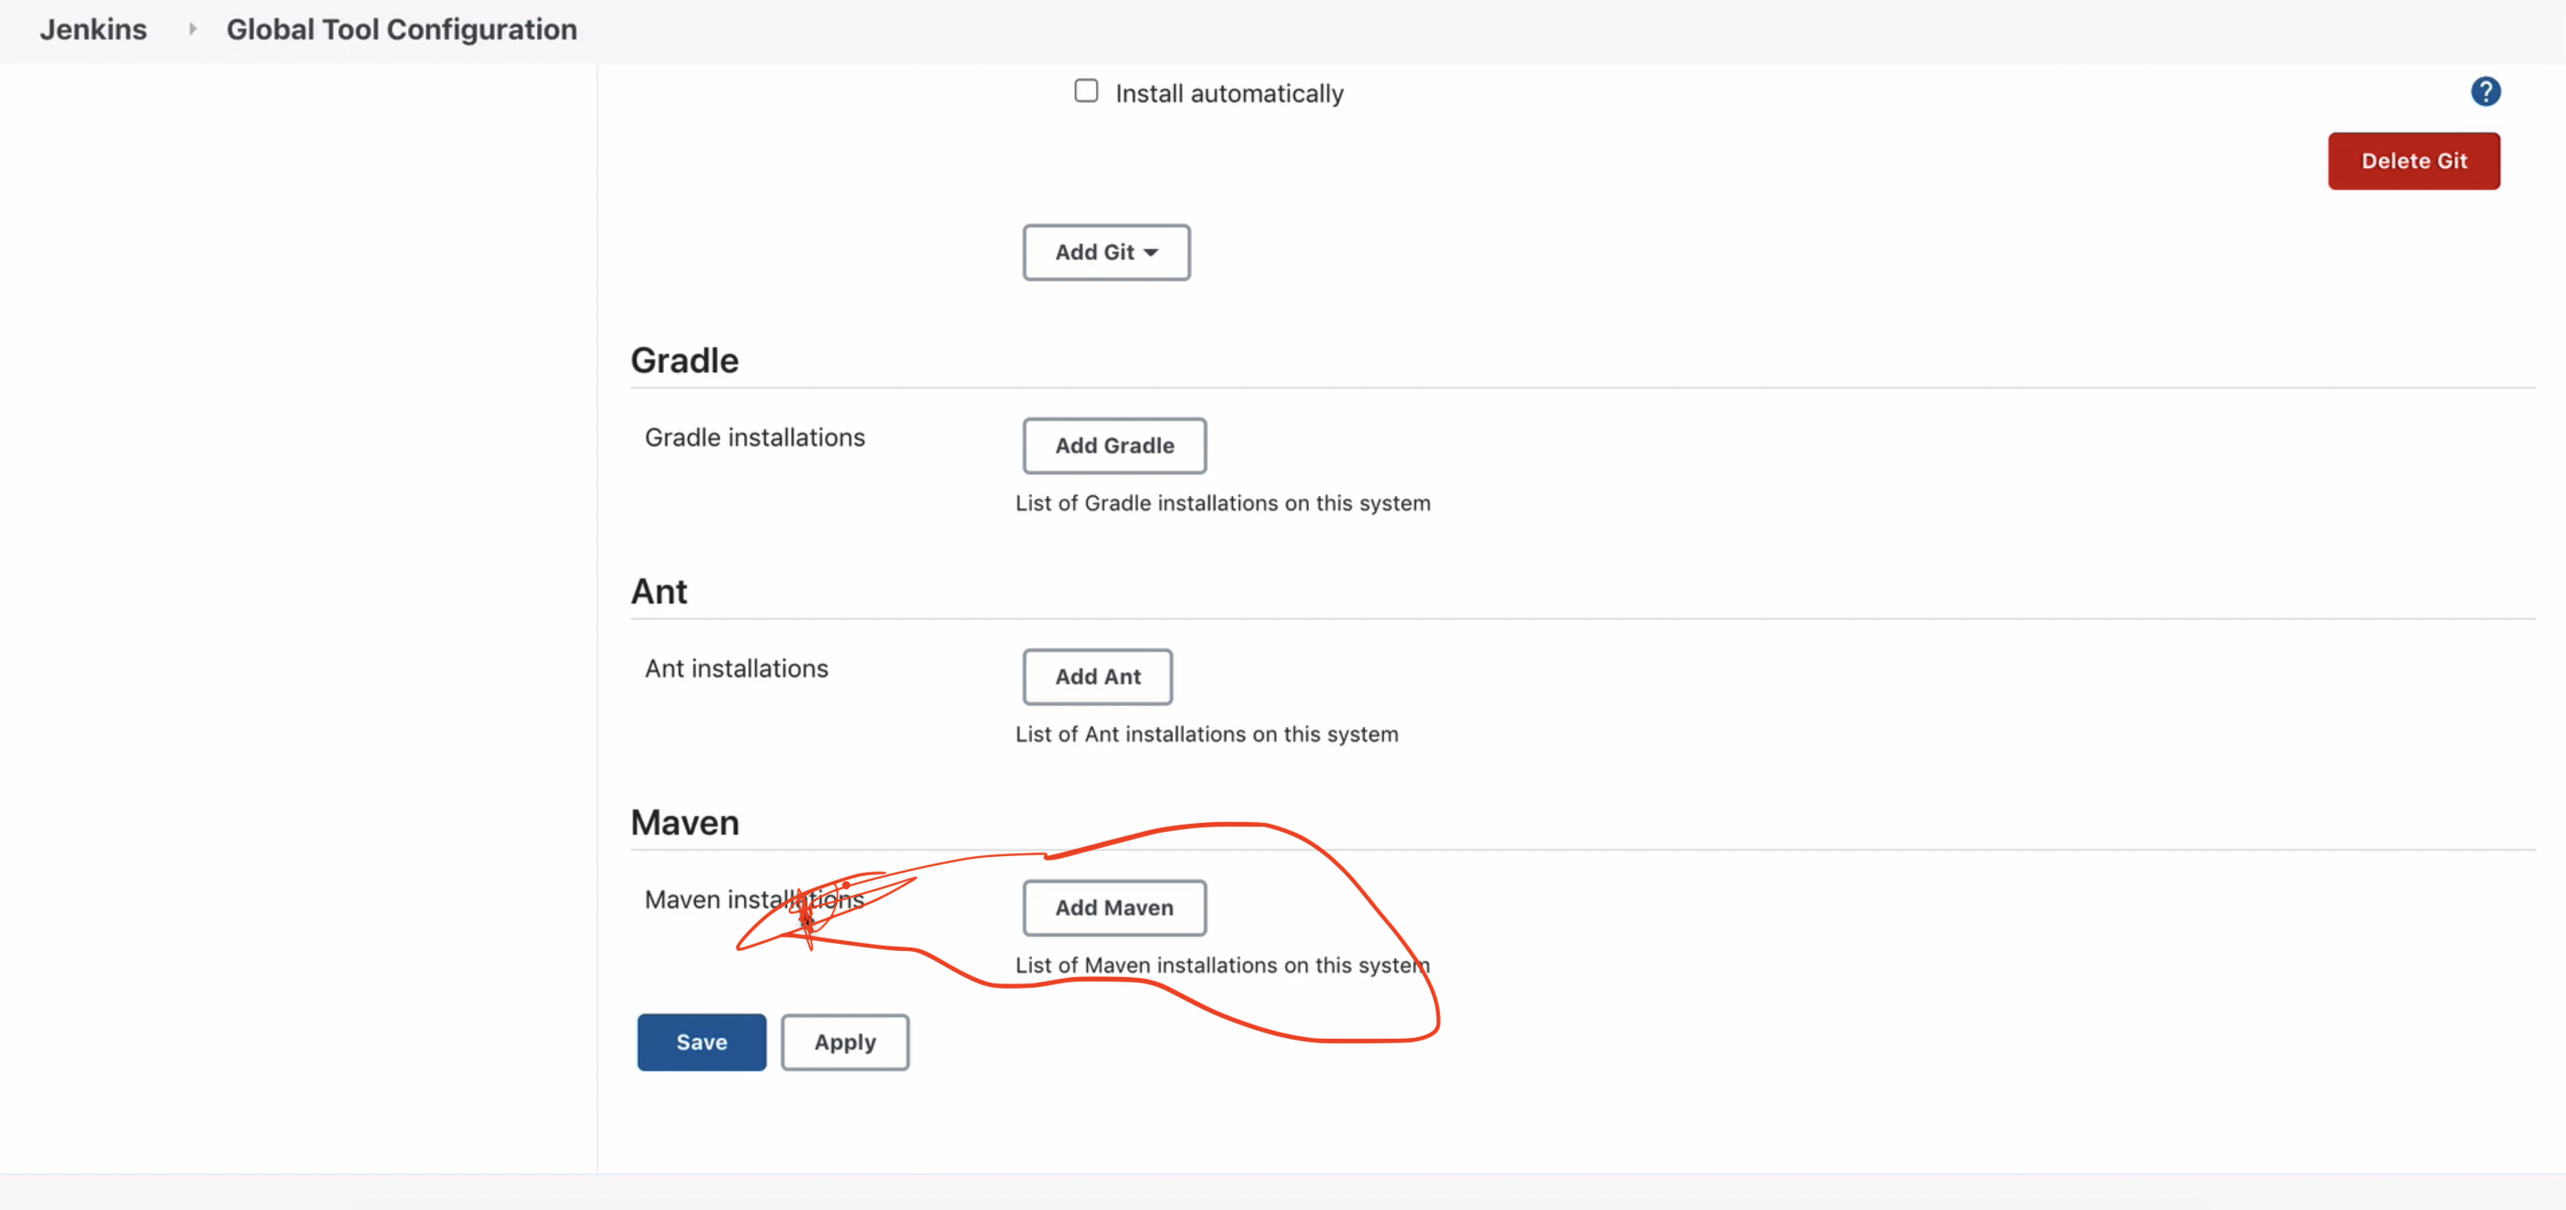
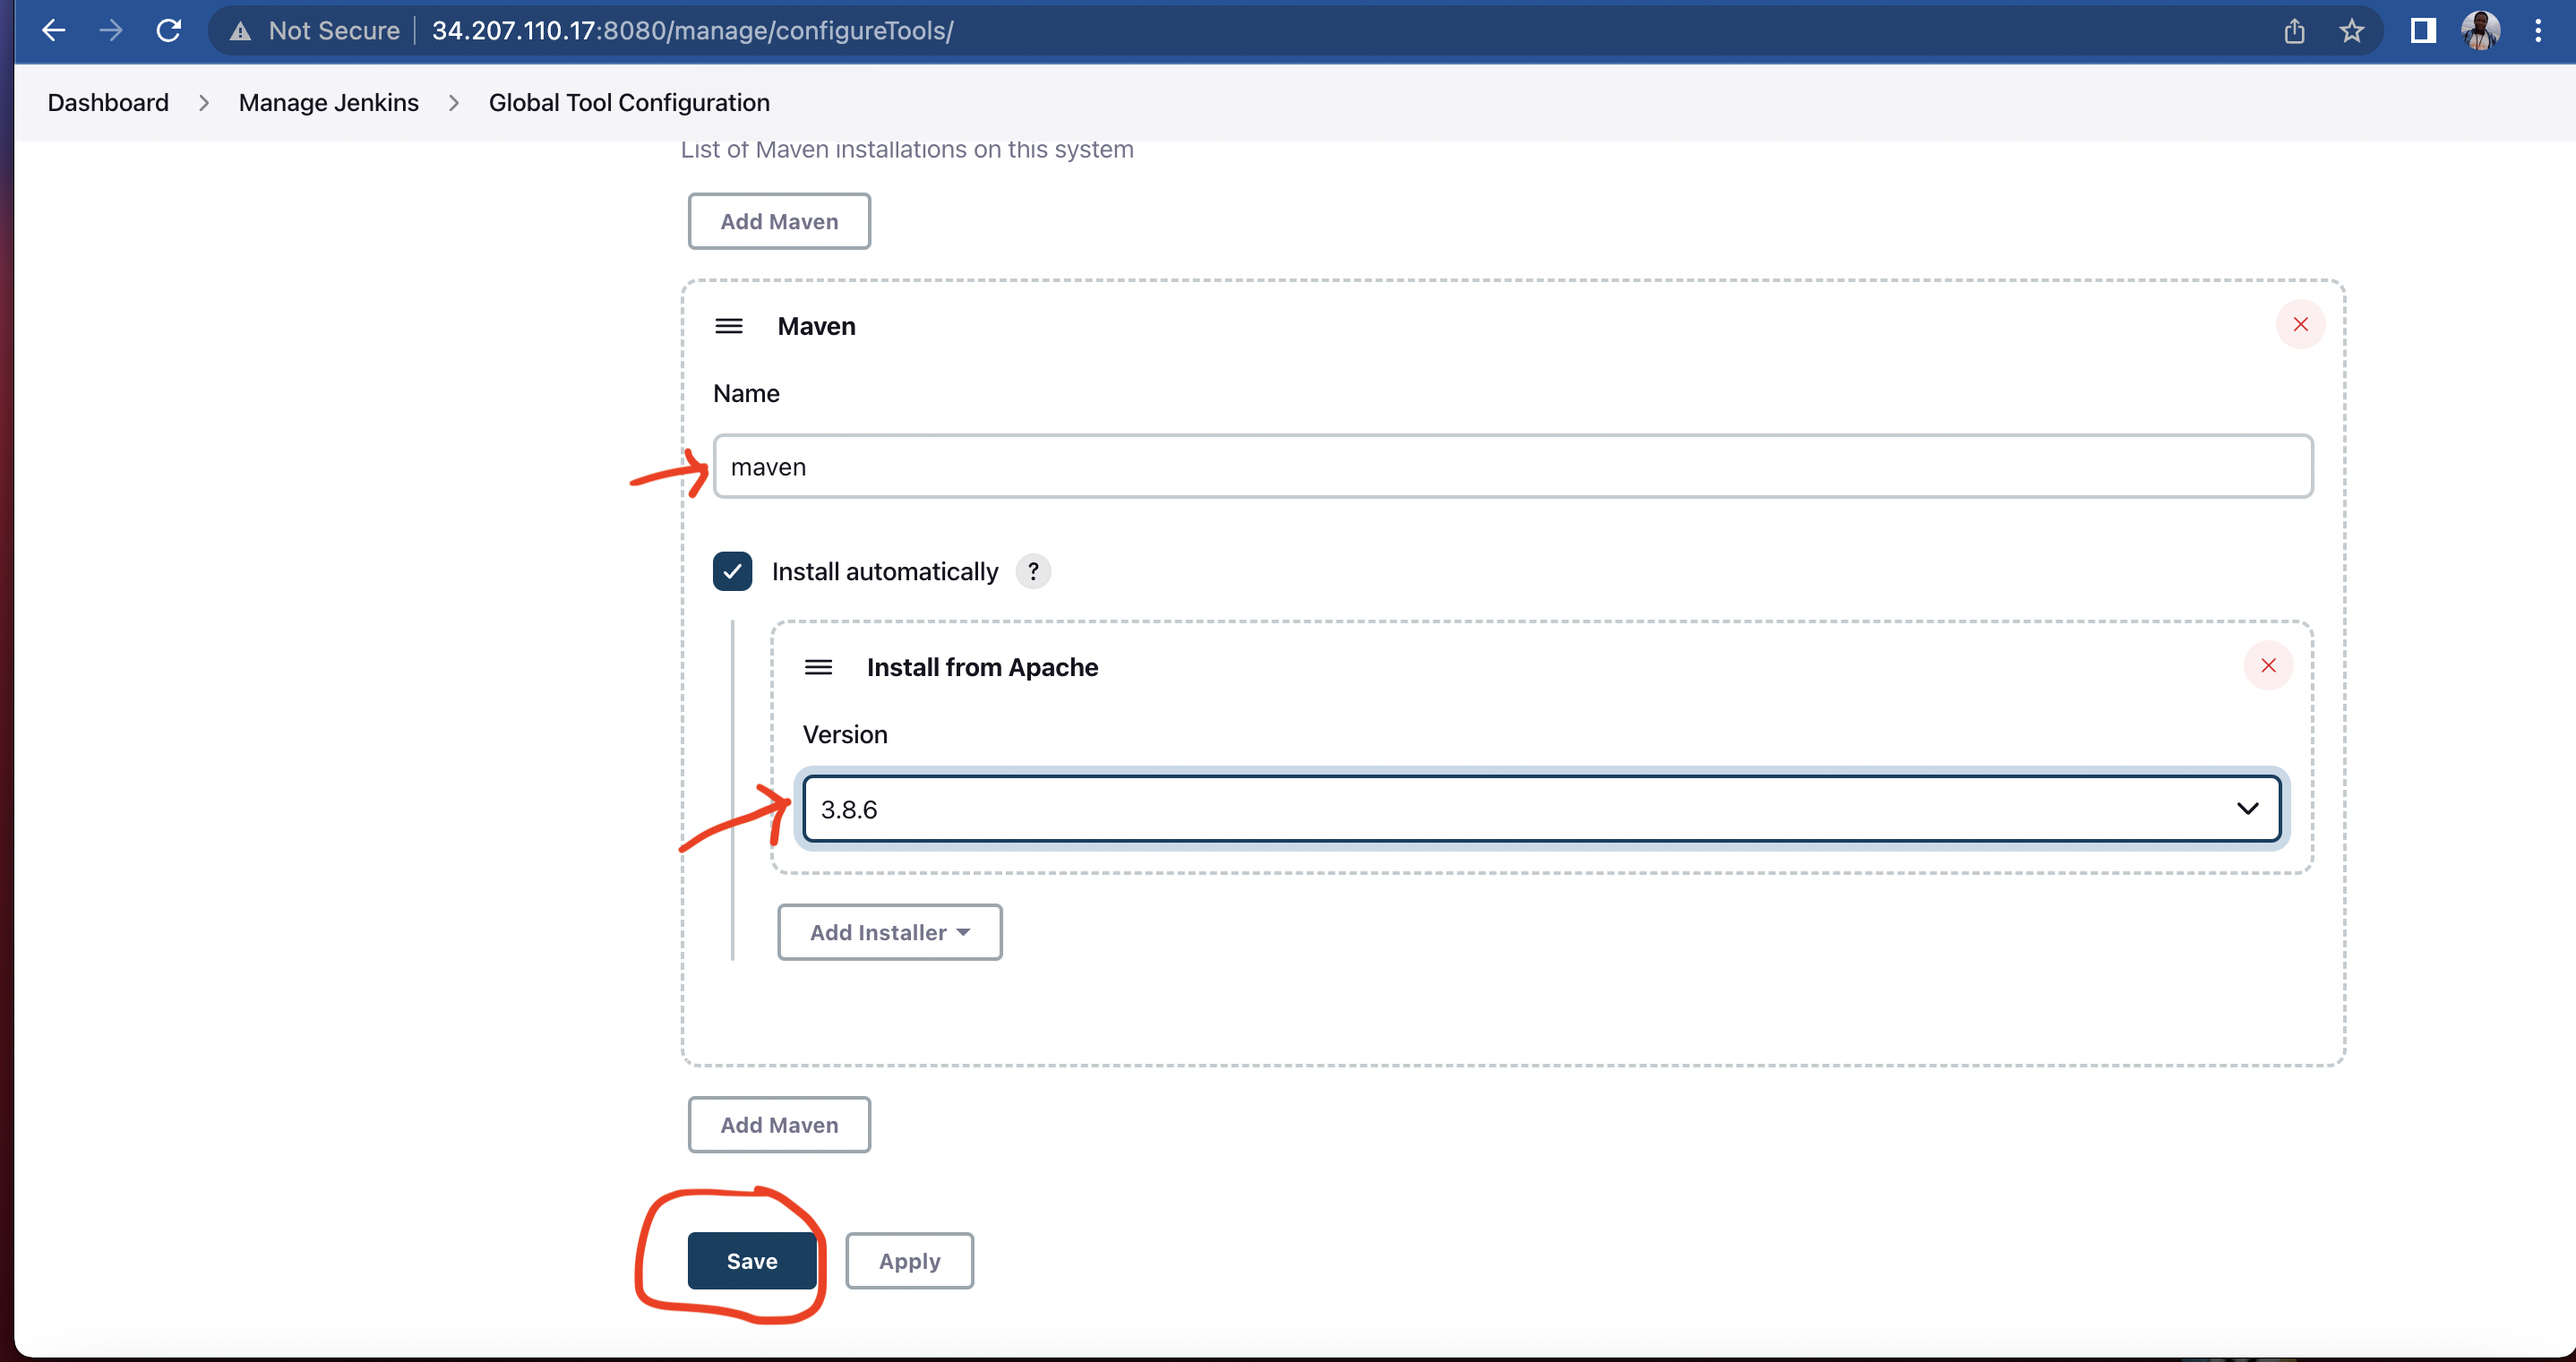
more docs

diff --git a/docs/README.md b/docs/README.md
@@ -8,7 +8,7 @@
   * [Install Jenkins using docker](#install-jenkins-using-docker)
   * [Initialise Jenkins](#initialise-jenkins)
   * [Create admin user](#create-admin-user)
-* [Install and Configure Plugins and Tools](#install-and-configure-plugins-and-tools)
+* [Configure Plugins and Tools](#configure-plugins-and-tools)
   * [Configure Maven plugins](#configure-maven-plugins)
   * [Configure Docker](#configure-docker)
   * [Credential and Authentication](#credential-authentication)
@@ -17,10 +17,11 @@
   * [Jenkinsfile defined](#jenkinsfile-defined)
 <!-- TOC -->
 
-# Set up Jenkins server on AWS Cloud
-
-This diagram describes the planned pipeline:
+This diagram describes the design:
 ![ci-with-jenkins](assets/ci-with-jenkins.svg)
+
+# Set up Jenkins server on AWS Cloud
+In this part, am going to spin up remote Jenkins server, install docker, initialise Jenkins and create admin user.
 
 ## Spin up virtual machine on AWS
 - I am going to set up Jenkins server on AWS cloud platform using docker so I wouldn't need to install dependencies like java directly on the server, all needed is just docker to get started.
@@ -32,6 +33,9 @@ This diagram describes the planned pipeline:
 ![aws-2](assets/aws-2.png)
 
 ## Install docker
+- First, to remotely access the VM, create key pair and download it from the AWS
+![sshkey](assets/sshkey.png)
+- SSH into the VM; Each time must cd into where the downloaded .pem file are, then run this command; ```ssh -i <identity_file.pem> ec2-user@<hostname>```
 - Docker runtime; Next is to install Docker as my runtime environment by running below command;
     ```sudo yum update -y```
     ```sudo amazon-linux-extras install docker```
@@ -44,13 +48,12 @@ This diagram describes the planned pipeline:
 I then copy the instance IP address and port to browser to view Jenkins app; ```http://34.207.110.17:8080/```
 
 ## Initialise Jenkins
-- Initialise Jenkins; Upon display on the browser, I supplied one-time use credential located at that path in red inside the container. 
-How did I get this password? I change permission and ssh into the server, cd into the .pem file download. With this command; ```ssh -i <identity_file.pem> ec2-user@<hostname>```
+- Initialise Jenkins; Upon display on the browser, I supplied one-time use credential located at that path in red inside the container. How I get this password is to view the file content inside the container 
 ![aws-3](assets/aws-3.png)
 
 - Enter the container; From the server, enter into the container by running this command;
     ```docker exec -it <container id> /bin/bash```
-to view the content of the password with this command;
+- View the content of the password with this command;
     ```cat /var/jenkins_home/secrets/initialAdminPassword```
 ![aws-4](assets/aws-4.png)
 
@@ -58,15 +61,27 @@ to view the content of the password with this command;
 - Create admin user; I go with the Install suggested plugins and create admin user
 ![aws-5](assets/aws-5.png)
 
-# Install and Configure plugins and Tools
+# Configure plugins and Tools
+Here, am going to configure maven plugin, install docker on the container, configure authentication for the required tools and plugins, configure git repo webhook.
 
 ## Configure Maven plugins
-- By default, maven plugin already install as suggested when initialing Jenkins. Only need to configure from  `Global Tool Configuration` under ``Manage Jenkins``tab by the left corner of the UI. 
+- By default, maven plugin already install as suggested when initialing Jenkins. Only need to add and configure from  `Global Tool Configuration` under ``Manage Jenkins``tab by the left corner of the UI.
+- I give it a name and choose a version say maven and 3.8.6 respectively, then save. This enable maven command in my job.
 ![maven-config](assets/maven-config.png)
-- I give it a name and choose a version say maven and 3.6.3 respectively, then save. This enable maven command in my job. 
 
 ## Configure Docker
-- If desire tools not available, in this case Docker, need to install it as plugins from the UI or directly on Jenkins server, which make it more flexible. Going for later option. So as to make Docker available in the Jenkins jobs.
+- If a desire tools not available, in this case Docker, need to install it as plugins from the UI or directly on Jenkins server, which make it more flexible. Going for later option. So as to make Docker available in the Jenkins jobs.
+- I will be attaching a volume to the Jenkins from the host file. Mounting the docker directoty from the AWS VM to container as volume. I stopped the container, create new one and re-attached the volume.
+- Run the command; 
+```docker run -p 8080:8080 -p 50000:50000 -d \``
+```-v jenkins_home:/var/jenkins_home \```
+```-v /var/run/docker.sock:/var/run/docker.sock \```
+```-v $(which docker):/usr/bin/docker jenkins/jenkins:lts```
+- Might want to check as root user if Docker now available inside container with the command; ```docker exec -u 0 -it <container-id> bash``` then ``docker ps``
+![docker-inside-container](assets/docker-inside-container.png)
+
+
+
 
 ## Credential and Authentication
 - Need to configure and grant access to all tools and services Jenkins need to execute the jobs, in this case GitHub and Docker
